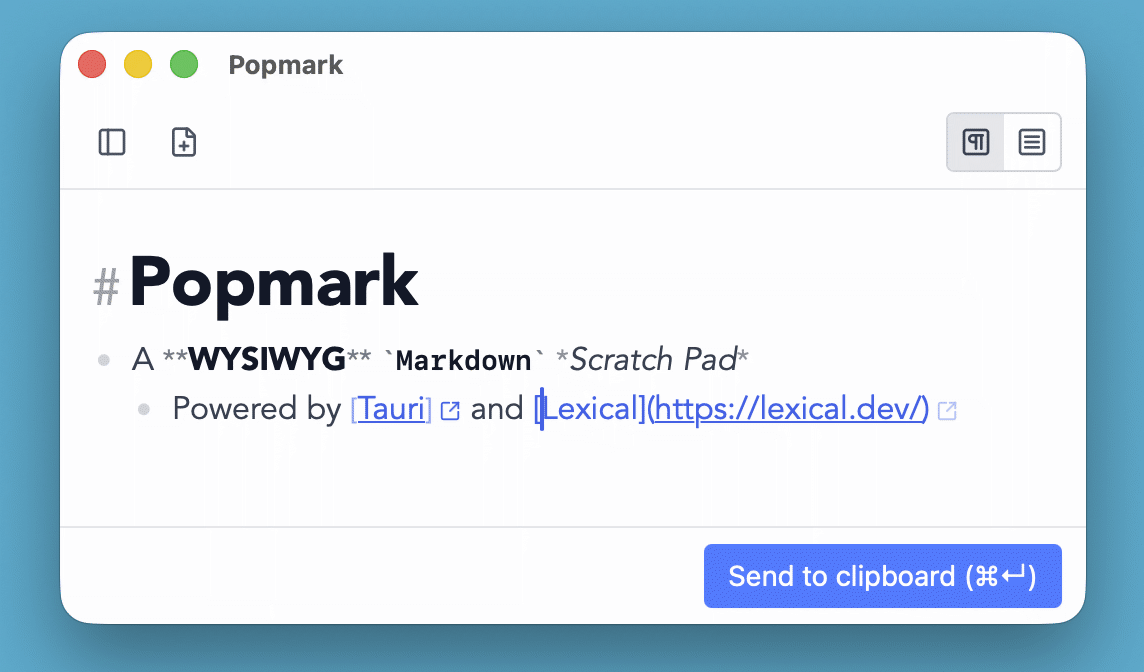
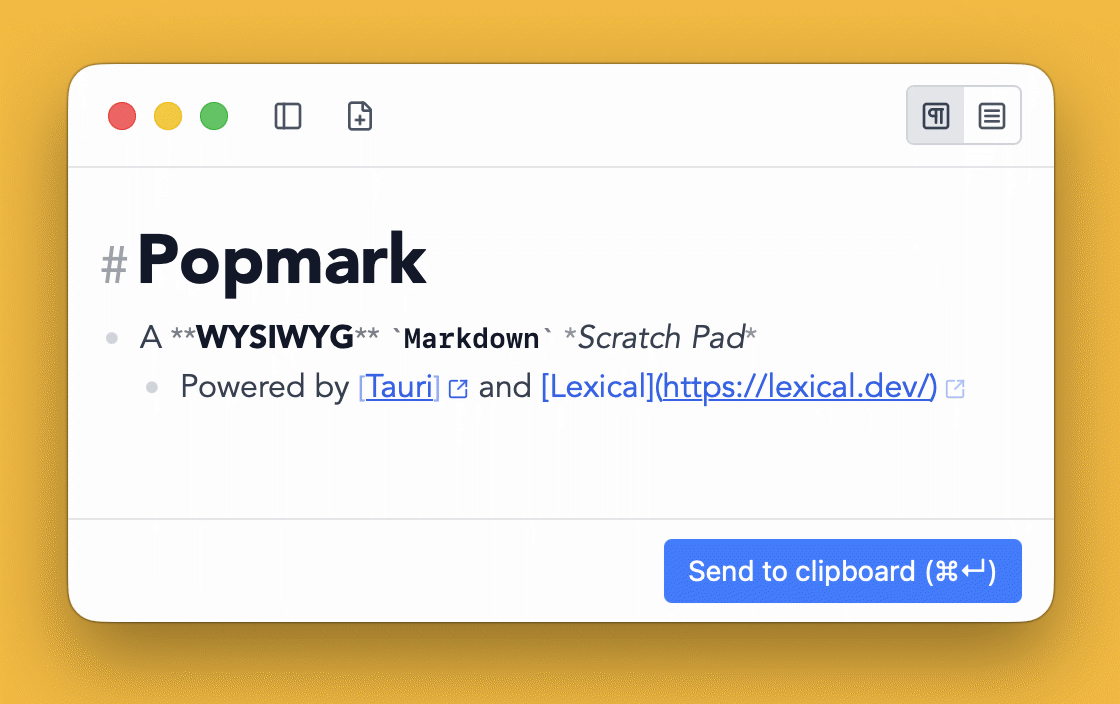
feat: apply macOS unified toolbar look to the main window

diff --git a/src/components/Toolbar.tsx b/src/components/Toolbar.tsx
@@ -16,7 +16,10 @@ export function Toolbar({
   onModeToggle,
 }: ToolbarProps) {
   return (
-    <div className="flex items-center gap-2 px-3 py-2 border-b border-gray-200 dark:border-gray-700 select-none bg-white dark:bg-gray-900">
+    <div
+      data-tauri-drag-region
+      className="popmark-toolbar flex items-center gap-2 px-3 py-2 border-b border-gray-200 dark:border-gray-700 select-none bg-white dark:bg-gray-900"
+    >
       <button
         type="button"
         onClick={onToggleHistory}
@@ -38,7 +41,10 @@ export function Toolbar({
       >
         <FilePlus size={16} />
       </button>
-      <div className="flex ml-auto rounded overflow-hidden border border-gray-300 dark:border-gray-600">
+      <div
+        data-tauri-drag-region
+        className="flex ml-auto rounded overflow-hidden border border-gray-300 dark:border-gray-600"
+      >
         {(
           [
             { mode: "rich", Icon: SquarePilcrow, title: "Rich text mode (⌘⇧R)" },

diff --git a/src/index.css b/src/index.css
@@ -1,6 +1,26 @@
 @import "tailwindcss";
 @plugin "@tailwindcss/typography";
 
+/* Disable rubber-band overscroll on both main and settings windows */
+html,
+body {
+  overscroll-behavior: none;
+}
+
+/* macOS unified-toolbar layout: keep popmark's editor background color and
+   the bottom border (from Tailwind utilities) — only reserve space for the
+   traffic-light cluster on the left and a slightly wider right gutter. */
+[data-platform="macos"] .popmark-toolbar {
+  height: 52px;
+  padding: 0 16px 0 96px;
+}
+
+/* Match the footer height to the toolbar so top/bottom chrome bands feel balanced. */
+[data-platform="macos"] .popmark-footer {
+  height: 52px;
+  padding: 0 16px;
+}
+
 /* Compact spacing: paragraphs */
 .prose :where(p):not(:where([class~="not-prose"] *)) {
   margin-top: 0.1em;

diff --git a/src/components/SettingsPanel.tsx b/src/components/SettingsPanel.tsx
@@ -162,8 +162,8 @@ export function SettingsPanel() {
   }
 
   return (
-    <div className="p-6 flex flex-col h-full">
-      <div className="flex-1">
+    <div className="flex flex-col h-full">
+      <div className="flex-1 min-h-0 overflow-y-auto px-6 pt-6">
         <h2 className="text-base font-semibold text-gray-900 dark:text-gray-100 mb-4">Settings</h2>
 
         {/* Global shortcut */}
@@ -301,7 +301,7 @@ export function SettingsPanel() {
       </div>
 
       {/* Action buttons */}
-      <div className="flex justify-end gap-2">
+      <div className="flex justify-end gap-2 px-6 pt-3 pb-6">
         <button
           type="button"
           onClick={handleCancel}

diff --git a/src/editor/MarkdownEditor.tsx b/src/editor/MarkdownEditor.tsx
@@ -522,7 +522,7 @@ export function MarkdownEditor({
             onClearAll={clearHistory}
           />
         </div>
-        <div className="flex justify-end items-center px-3 py-2 border-t border-gray-200 dark:border-gray-700 bg-white dark:bg-gray-900 select-none">
+        <div className="popmark-footer flex justify-end items-center px-3 py-2 border-t border-gray-200 dark:border-gray-700 bg-white dark:bg-gray-900 select-none">
           <SendToClipboardButton
             editorMode={editorMode}
             plainContent={plainContent}

diff --git a/src/main.tsx b/src/main.tsx
@@ -6,6 +6,8 @@ import "./index.css";
 
 const isSettings = window.location.hash === "#settings";
 
+document.documentElement.dataset.platform = /Mac/i.test(navigator.userAgent) ? "macos" : "other";
+
 ReactDOM.createRoot(document.getElementById("root") as HTMLElement).render(
   <React.StrictMode>{isSettings ? <SettingsApp /> : <App />}</React.StrictMode>,
 );

diff --git a/src/App.tsx b/src/App.tsx
@@ -67,7 +67,7 @@ function App() {
   if (!settingsLoaded) return null;
 
   return (
-    <div className="h-screen w-screen flex flex-col bg-white dark:bg-gray-900">
+    <div className="h-screen w-screen flex flex-col">
       <MarkdownEditor
         editorMode={editorMode}
         onModeChange={handleModeChange}

diff --git a/src-tauri/src/lib.rs b/src-tauri/src/lib.rs
@@ -43,6 +43,22 @@ pub fn run() {
 
             setup_tray(handle)?;
 
+            #[cfg(target_os = "macos")]
+            {
+                use window_vibrancy::{
+                    apply_vibrancy, NSVisualEffectMaterial, NSVisualEffectState,
+                };
+                if let Some(window) = handle.get_webview_window("main") {
+                    apply_vibrancy(
+                        &window,
+                        NSVisualEffectMaterial::HeaderView,
+                        Some(NSVisualEffectState::Active),
+                        None,
+                    )
+                    .expect("apply_vibrancy failed for main window");
+                }
+            }
+
             // Read saved settings and register global shortcut
             let settings = commands::get_settings(handle.clone()).unwrap_or_default();
             commands::re_register_shortcut(handle, &settings.hotkey)?;

diff --git a/README.md b/README.md
@@ -2,7 +2,7 @@
 
 Press a hotkey, write your Markdown, send to clipboard, done.
 
-<img src="docs/screenshot.png" width="572" alt="">
+<img src="docs/screenshot.png" width="560" alt="">
 
 ## Background
 
